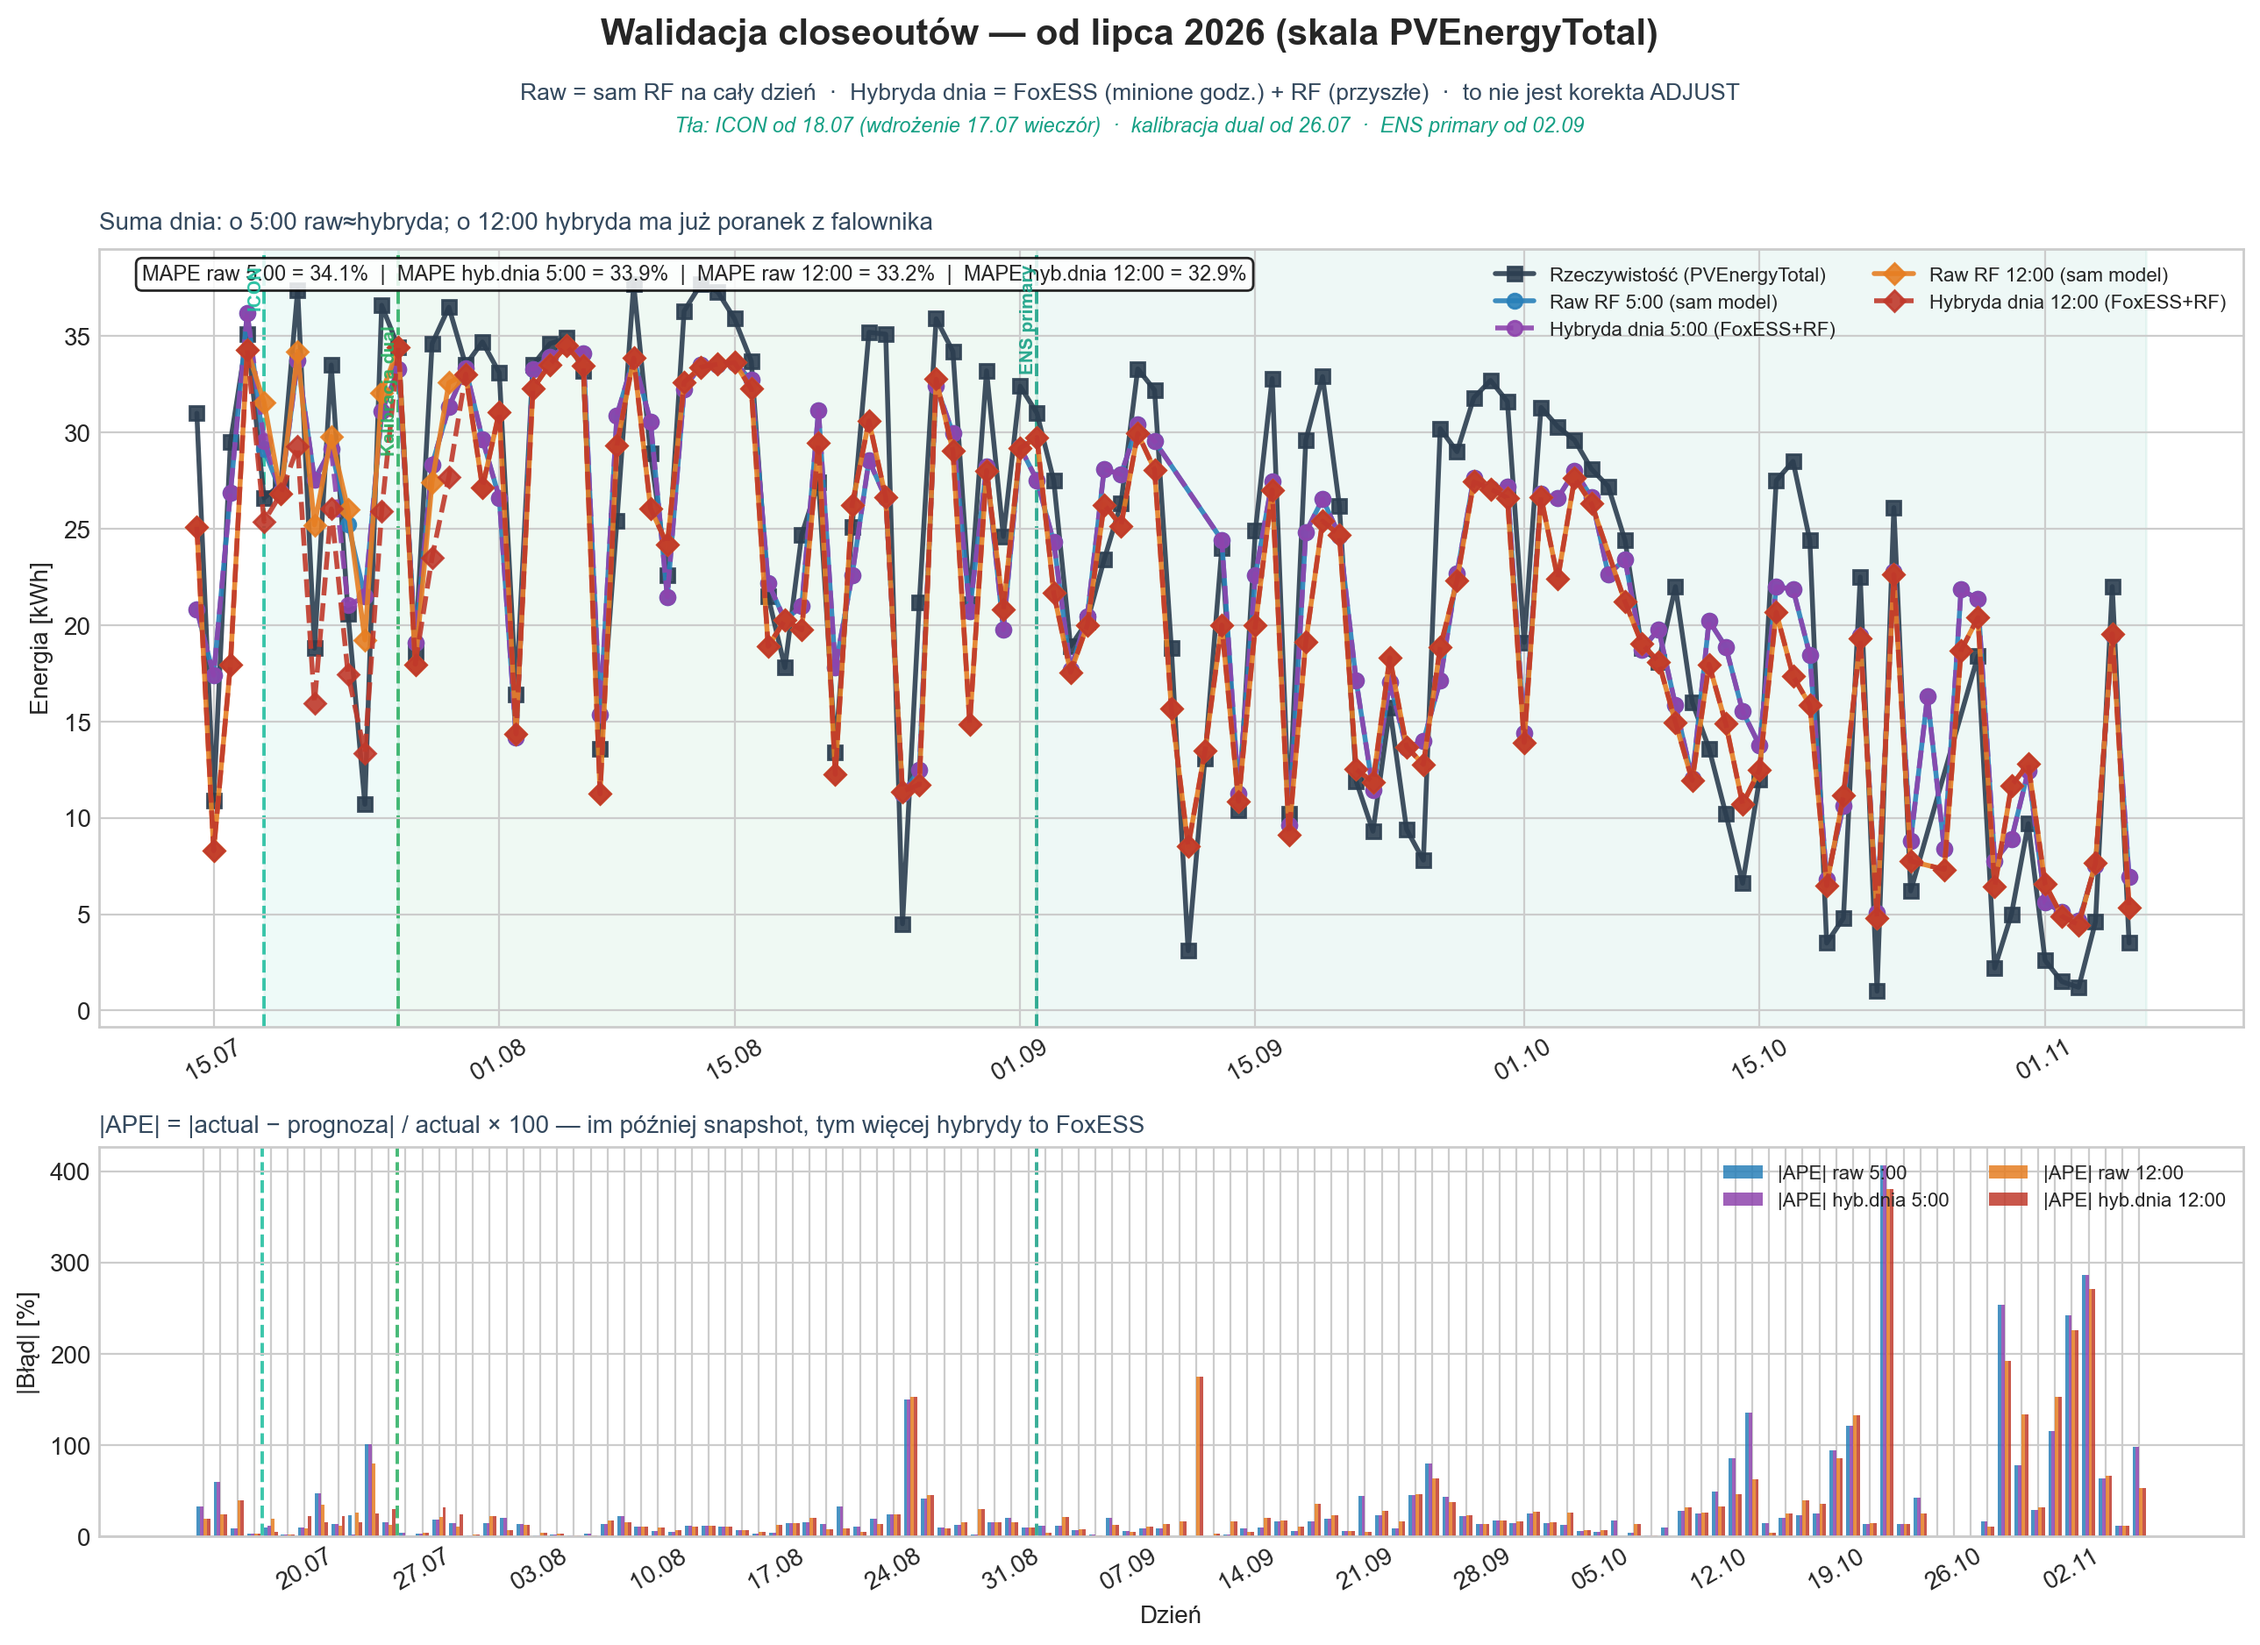
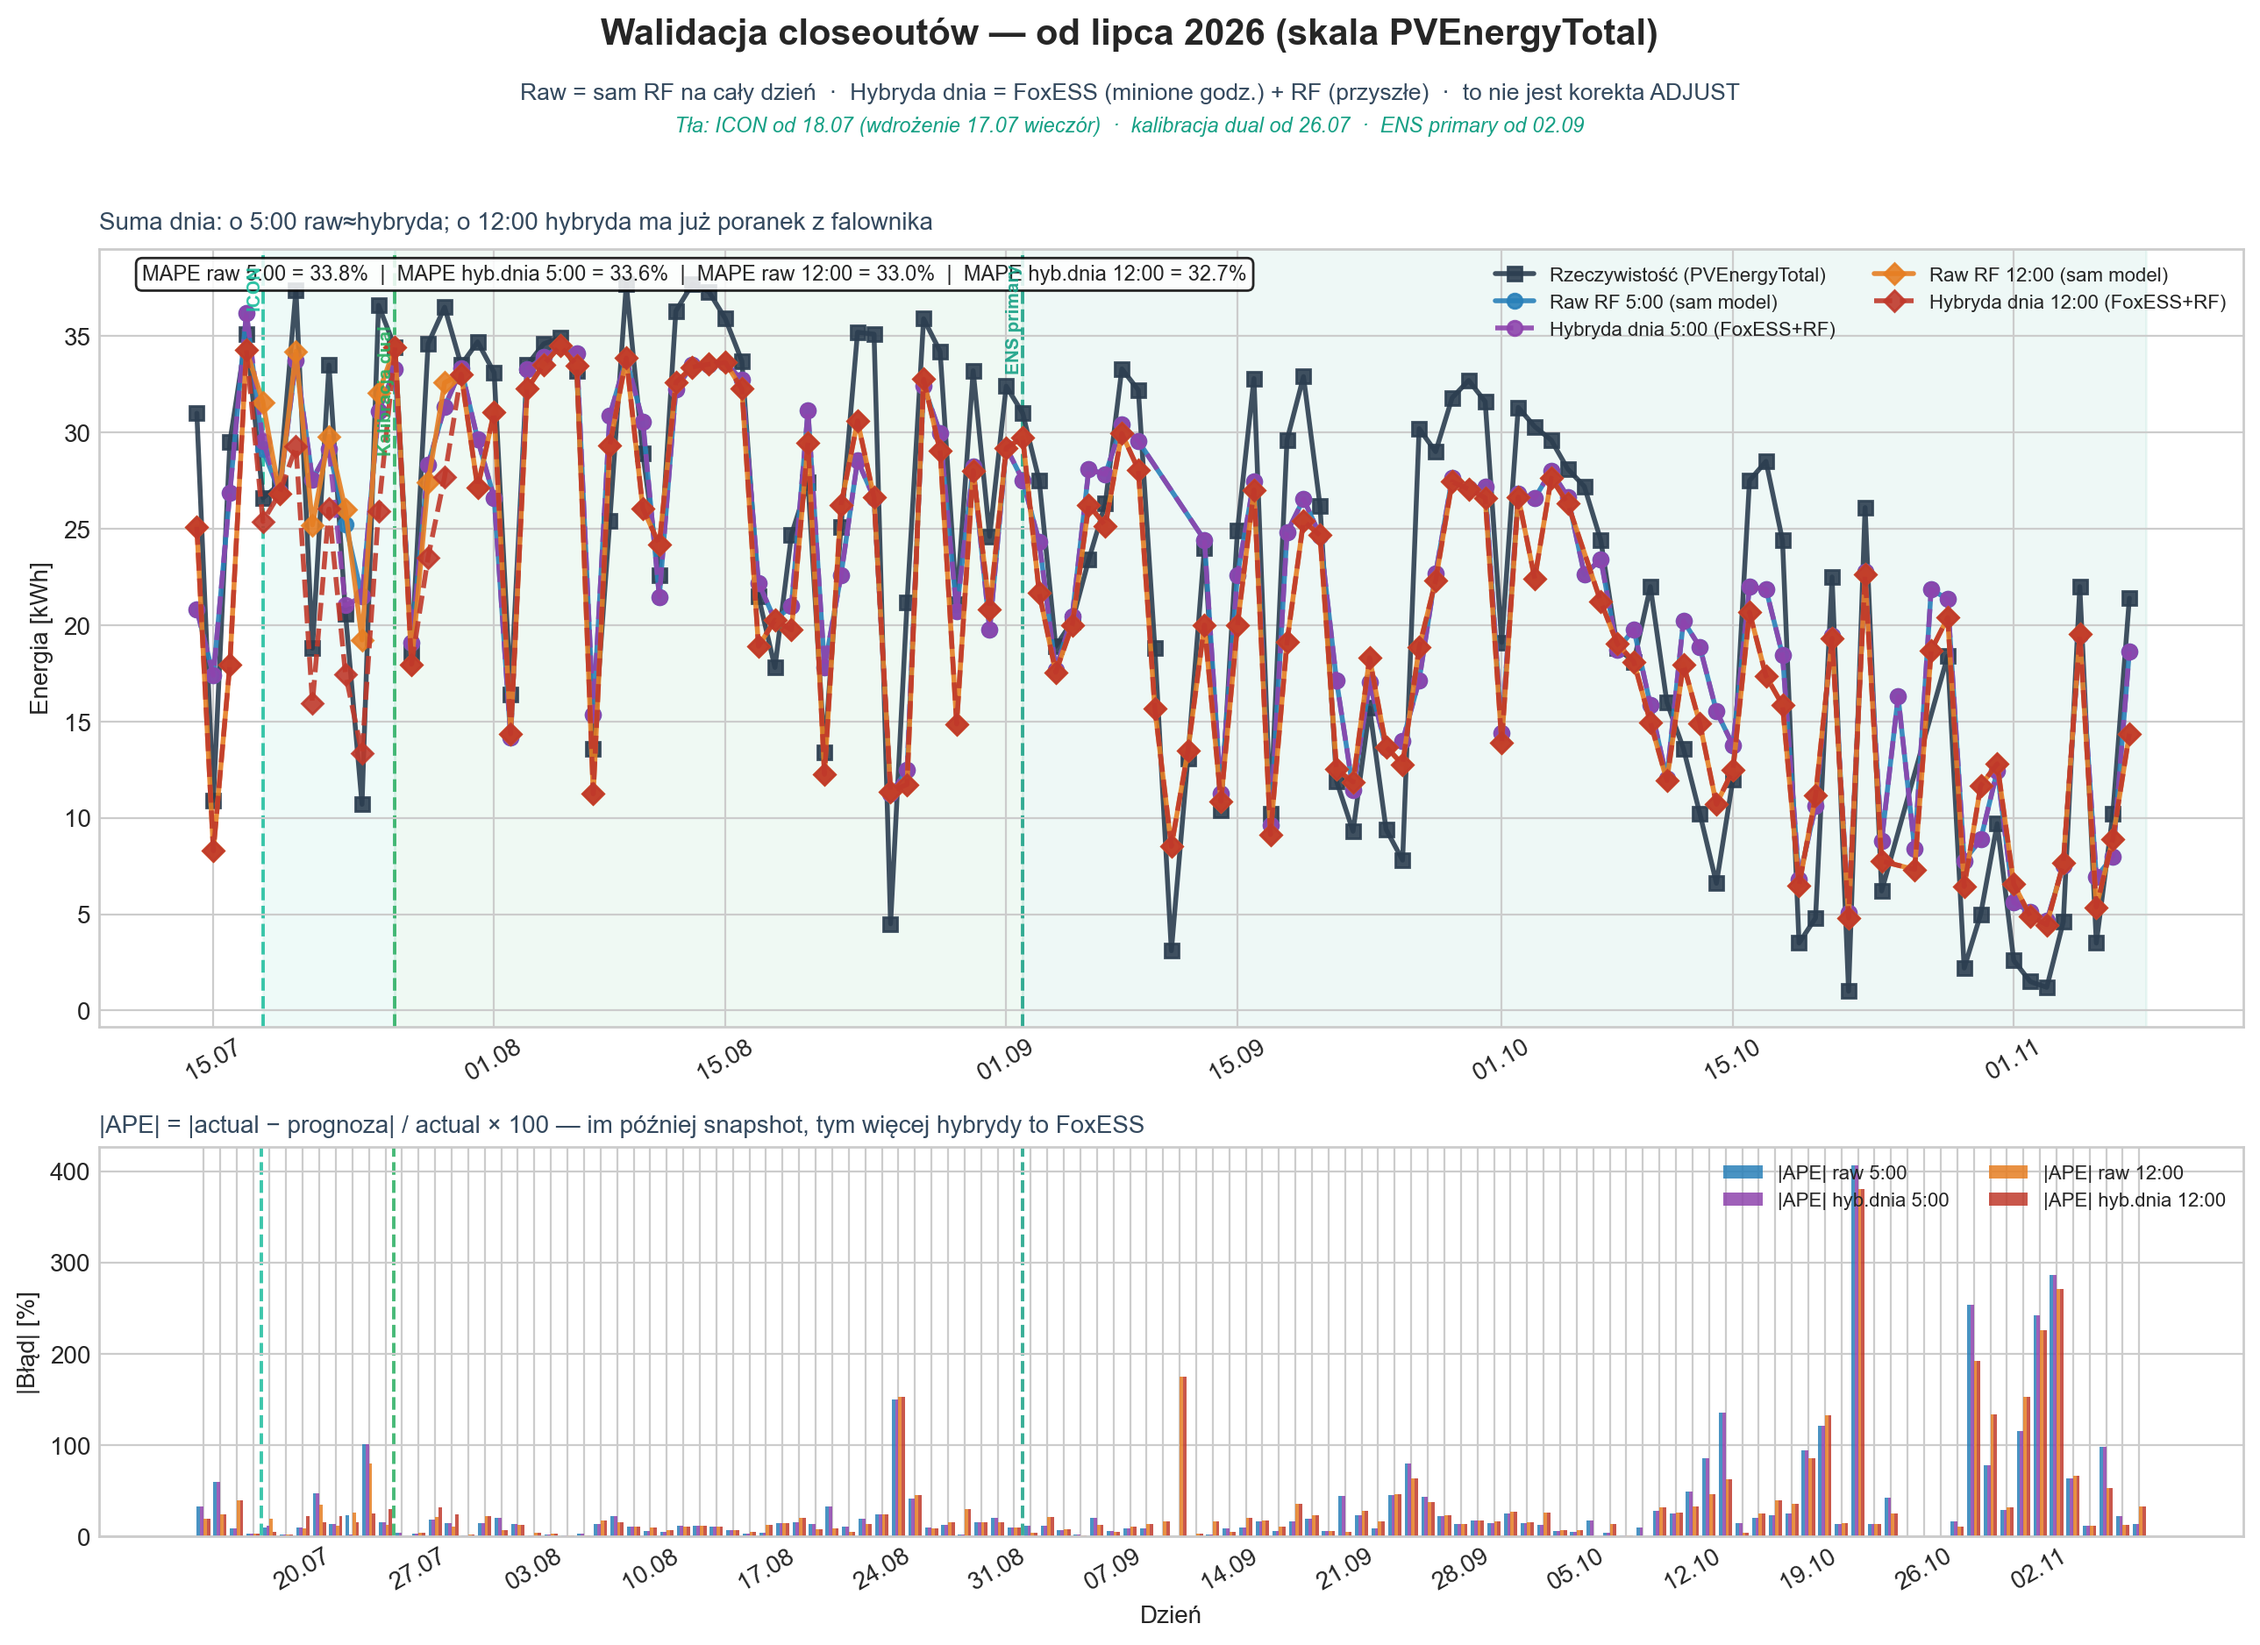
docs(ml): gate dual L30 i wykresy walidacji po closeoucie 07.11

diff --git a/docs/images/ml/july_validation_summary.md b/docs/images/ml/july_validation_summary.md
@@ -6,14 +6,14 @@ Metryka: **|APE| %** = `|actual − prognoza| / actual × 100`. Pogoda: średnie
 
 | Typ dnia (cloud) | n | MAPE raw 5:00 | MAPE raw 12:00 | Dni |
 |---|---:|---:|---:|---|
-| słoneczny / mało chmur | 25 | 10.4% | 12.5% | 20.07, 30.07, 31.07, 04.08, 05.08, 06.08, 09.08, 12.08, 13.08, 14.08, 15.08, 27.08, 08.09, 09.09, 28.09, 29.09, 30.09, 02.10, 03.10, 05.10, 16.10, 17.10, 23.10, 27.10, 05.11 |
+| słoneczny / mało chmur | 26 | 10.5% | 13.3% | 20.07, 30.07, 31.07, 04.08, 05.08, 06.08, 09.08, 12.08, 13.08, 14.08, 15.08, 27.08, 08.09, 09.09, 28.09, 29.09, 30.09, 02.10, 03.10, 05.10, 16.10, 17.10, 23.10, 27.10, 05.11, 08.11 |
 | mieszany | 33 | 16.8% | 16.7% | 16.07, 17.07, 25.07, 26.07, 28.07, 29.07, 03.08, 08.08, 10.08, 16.08, 20.08, 22.08, 23.08, 24.08, 28.08, 29.08, 30.08, 01.09, 02.09, 06.09, 15.09, 16.09, 19.09, 26.09, 27.09, 04.10, 06.10, 07.10, 12.10, 13.10, 18.10, 21.10, 28.10 |
-| pochmurny / deszczowy | 58 | 55.5% | 51.6% | 14.07, 15.07, 18.07, 19.07, 21.07, 22.07, 23.07, 24.07, 27.07, 01.08, 02.08, 07.08, 11.08, 17.08, 18.08, 19.08, 21.08, 25.08, 26.08, 31.08, 03.09, 04.09, 05.09, 07.09, 10.09, 11.09, 12.09, 13.09, 14.09, 17.09, 18.09, 20.09, 21.09, 22.09, 23.09, 24.09, 25.09, 01.10, 08.10, 09.10, 10.10, 11.10, 14.10, 15.10, 19.10, 20.10, 22.10, 24.10, 25.10, 26.10, 29.10, 30.10, 31.10, 01.11, 02.11, 03.11, 04.11, 06.11 |
+| pochmurny / deszczowy | 59 | 54.9% | 50.9% | 14.07, 15.07, 18.07, 19.07, 21.07, 22.07, 23.07, 24.07, 27.07, 01.08, 02.08, 07.08, 11.08, 17.08, 18.08, 19.08, 21.08, 25.08, 26.08, 31.08, 03.09, 04.09, 05.09, 07.09, 10.09, 11.09, 12.09, 13.09, 14.09, 17.09, 18.09, 20.09, 21.09, 22.09, 23.09, 24.09, 25.09, 01.10, 08.10, 09.10, 10.10, 11.10, 14.10, 15.10, 19.10, 20.10, 22.10, 24.10, 25.10, 26.10, 29.10, 30.10, 31.10, 01.11, 02.11, 03.11, 04.11, 06.11, 07.11 |
 
 - **Najtrafniejszy raw 5:00:** 08.10 (0.4% · pochmurny / deszczowy, cloud~79%, actual 18.8 kWh), 30.07 (0.6% · słoneczny / mało chmur, cloud~30%, actual 33.5 kWh), 03.08 (0.7% · mieszany, cloud~47%, actual 33.5 kWh)
 - **Najgorszy raw 5:00:** 22.10 (406.0% · pochmurny / deszczowy, cloud~100%, actual 1.0 kWh), 03.11 (286.7% · pochmurny / deszczowy, cloud~97%, actual 1.2 kWh), 29.10 (253.2% · pochmurny / deszczowy, cloud~96%, actual 2.2 kWh)
 - **Najgorszy raw 12:00:** 22.10 (380.0% · pochmurny / deszczowy, actual 1.0 kWh), 03.11 (270.8% · pochmurny / deszczowy, actual 1.2 kWh), 02.11 (226.0% · pochmurny / deszczowy, actual 1.5 kWh)
-- **Rekord |APE| (cała seria 14.07–06.11):** **22.10** raw 12:00 **380.0%** (Fox **1.0** kWh vs prognoza midday **4.8** kWh) — wyżej niż dotychczasowy outlier **25.08** (152,7% midday). Accu reżim **CS4** OK; miss = poziom kWh, nie klasyfikacja.
+- **Rekord |APE| (cała seria 14.07–08.11):** **22.10** raw 12:00 **380.0%** (Fox **1.0** kWh vs prognoza midday **4.8** kWh) — wyżej niż dotychczasowy outlier **25.08** (152,7% midday). Accu reżim **CS4** OK; miss = poziom kWh, nie klasyfikacja.
 
 - **Wzorzec:** na dniach **jasnych / wysokiej produkcji** raw bywa lekko **za niski** (NWP za chmurny vs Accu) — błąd umiarkowany w %, duży w kWh. Na dniach **słabych / burzowych** raw często **zawyża** — wtedy |APE| % eksploduje przy niskim Fox (**11.09** rekord **174,8%**; wcześniej klasa **25.08** ~153%). Od **02.09** primary to **ENS (ICON+UKMO)** — ten sam RF16, inna pogoda.
 
@@ -36,16 +36,16 @@ Raw 5:00 vs Fox, tygodnie pn–nd (od 03.08, min. 5 dni). **WAPE** = Σ|pred−F
 | 12.10–18.10 | 7 | 17.5 | 35.9% | +6.4% | -22.5% (n=3) | 135% | 35.0% (n=7) | -14.6% | **ALARM** · WAPE ALARM · bias OK · dzień ALARM |
 | 19.10–25.10 | 6 | 10.7 | 34.6% | +14.6% | -13.2% (n=2) | 406% | 32.4% (n=6) | +6.2% | **ALARM** · WAPE ALARM · bias ALARM · dzień ALARM |
 | 26.10–01.11 | 5 | 7.6 | 47.8% | +47.8% | — | 253% | 43.2% (n=5) | +43.2% | **ALARM** · WAPE ALARM · bias ALARM · dzień ALARM |
-| 02.11–08.11 | 5 | 6.6 | 48.5% | +33.3% | -11.4% (n=1) | 287% | 55.8% (n=5) | +39.5% | **ALARM** · WAPE ALARM · bias ALARM · dzień ALARM |
+| 02.11–08.11 | 7 | 9.2 | 32.4% | +9.3% | -12.1% (n=2) | 287% | 44.2% (n=7) | +4.4% | **ALARM** · WAPE ALARM · bias WATCH · dzień ALARM |
 
 #### ENS vs dual ICON — korekta o miks pogody
 
-Era ENS ma więcej dni pochmurnych (**58%** vs **32%** w erze dual), a na pochmurnych |APE| % jest zawyżone przez niski Fox — dlatego porównuj **te same typy dni** (różnica MAPE raw 5:00, ENS − dual): słoneczny / mało chmur: wyższy o 6.1 pp w erze ENS; mieszany: wyższy o 11.6 pp w erze ENS; pochmurny / deszczowy: wyższy o 43.1 pp w erze ENS. Mała próba (n w komórkach) — to obserwacja, nie wniosek.
+Era ENS ma więcej dni pochmurnych (**57%** vs **32%** w erze dual), a na pochmurnych |APE| % jest zawyżone przez niski Fox — dlatego porównuj **te same typy dni** (różnica MAPE raw 5:00, ENS − dual): słoneczny / mało chmur: wyższy o 6.1 pp w erze ENS; mieszany: wyższy o 11.6 pp w erze ENS; pochmurny / deszczowy: wyższy o 41.6 pp w erze ENS. Mała próba (n w komórkach) — to obserwacja, nie wniosek.
 
 | Era | słoneczny / mało chmur (n · MAPE 5:00) | mieszany (n · MAPE 5:00) | pochmurny / deszczowy (n · MAPE 5:00) | udział dni pochmurnych |
 |---|---:|---:|---:|---:|
 | dual ICON 27.07–01.09 | 11 · 7.3% | 14 · 12.1% | 12 · 27.4% | 32% |
-| ENS od 02.09 | 13 · 13.3% | 15 · 23.7% | 38 · 70.5% | 58% |
+| ENS od 02.09 | 14 · 13.3% | 15 · 23.7% | 39 · 69.1% | 57% |
 
 #### Kiedy hybryda dnia pomaga, a kiedy szkodzi
 
@@ -53,7 +53,7 @@ Porównanie **midday (12:00)**: hybryda = FoxESS na minione godziny + RF na resz
 
 - **Hybryda pomaga (12:00):** 18.07 (↓14.1 pp, pochmurny / deszczowy); 21.07 (↓18.9 pp, pochmurny / deszczowy); 23.07 (↓10.8 pp, pochmurny / deszczowy); 24.07 (↓55.0 pp, pochmurny / deszczowy)
 - **Hybryda szkodzi (12:00):** 20.07 (↑13.2 pp, słoneczny / mało chmur); 22.07 (↑11.2 pp, pochmurny / deszczowy); 25.07 (↑16.7 pp, mieszany); 28.07 (↑11.3 pp, mieszany); 29.07 (↑13.4 pp, mieszany)
-- **Remis / szum (<1 pp):** 14.07, 15.07, 16.07, 17.07, 19.07, 26.07, 27.07, 30.07, 31.07, 01.08, 02.08, 03.08, 04.08, 05.08, 06.08, 07.08, 08.08, 09.08, 10.08, 11.08, 12.08, 13.08, 14.08, 15.08, 16.08, 17.08, 18.08, 19.08, 20.08, 21.08, 22.08, 23.08, 24.08, 25.08, 26.08, 27.08, 28.08, 29.08, 30.08, 31.08, 01.09, 02.09, 03.09, 04.09, 05.09, 06.09, 07.09, 08.09, 09.09, 10.09, 11.09, 12.09, 13.09, 14.09, 15.09, 16.09, 17.09, 18.09, 19.09, 20.09, 21.09, 22.09, 23.09, 24.09, 25.09, 26.09, 27.09, 28.09, 29.09, 30.09, 01.10, 02.10, 03.10, 04.10, 05.10, 07.10, 08.10, 09.10, 10.10, 11.10, 12.10, 13.10, 14.10, 15.10, 16.10, 17.10, 18.10, 19.10, 20.10, 21.10, 22.10, 23.10, 24.10, 28.10, 29.10, 30.10, 31.10, 01.11, 02.11, 03.11, 04.11, 05.11, 06.11
+- **Remis / szum (<1 pp):** 14.07, 15.07, 16.07, 17.07, 19.07, 26.07, 27.07, 30.07, 31.07, 01.08, 02.08, 03.08, 04.08, 05.08, 06.08, 07.08, 08.08, 09.08, 10.08, 11.08, 12.08, 13.08, 14.08, 15.08, 16.08, 17.08, 18.08, 19.08, 20.08, 21.08, 22.08, 23.08, 24.08, 25.08, 26.08, 27.08, 28.08, 29.08, 30.08, 31.08, 01.09, 02.09, 03.09, 04.09, 05.09, 06.09, 07.09, 08.09, 09.09, 10.09, 11.09, 12.09, 13.09, 14.09, 15.09, 16.09, 17.09, 18.09, 19.09, 20.09, 21.09, 22.09, 23.09, 24.09, 25.09, 26.09, 27.09, 28.09, 29.09, 30.09, 01.10, 02.10, 03.10, 04.10, 05.10, 07.10, 08.10, 09.10, 10.10, 11.10, 12.10, 13.10, 14.10, 15.10, 16.10, 17.10, 18.10, 19.10, 20.10, 21.10, 22.10, 23.10, 24.10, 28.10, 29.10, 30.10, 31.10, 01.11, 02.11, 03.11, 04.11, 05.11, 06.11, 07.11, 08.11
 
 - **O 5:00:** hybryda ≈ raw (pomaga 1 dni / szkodzi 1) — przed wschodem prawie nie ma FoxESS do podmiany.
 
@@ -72,18 +72,18 @@ Podział według **zmian logiki / targetu / cech** (nie każdy niedzielny odświ
 | 14.07–18.07 | przed targetem PVE (skala mieszana; GPS/ICON 17.07) | 5 | 22.8% | 20.6% |
 | 19.07–26.07 | po PVE 18.07 ~16:32 — przed dual 26.07 | 8 | 26.5% | 21.7% |
 | 27.07–01.09 | era dual ICON primary (po 26.07; weekly = odświeżenie wag) | 37 | 15.6% | 15.8% |
-| 02.09–06.11 | era ENS primary (ICON+UKMO; gate 01.09, daily od 02.09) | 66 | 47.4% | 46.1% |
-| 19.07–06.11 | **era PVE łącznie** (bez 14–18) | 111 | **34.6%** | **33.8%** |
+| 02.09–08.11 | era ENS primary (ICON+UKMO; gate 01.09, daily od 02.09) | 68 | 46.4% | 45.4% |
+| 19.07–08.11 | **era PVE łącznie** (bez 14–18) | 113 | **34.3%** | **33.6%** |
 
-_Zakres całość: 14.07–06.11 (116 closeoutów) · MAPE raw 5:00 = **34.1%** · MAPE raw 12:00 = **33.2%**._
+_Zakres całość: 14.07–08.11 (118 closeoutów) · MAPE raw 5:00 = **33.8%** · MAPE raw 12:00 = **33.0%**._
 
-#### Notatka odświeżenia 07.11.2026
+#### Notatka odświeżenia 08.11.2026
 
-- Zakres closeoutów: **14.07–06.11** (n=116). PNG + ten plik wygenerowane **07.11**.
+- Zakres closeoutów: **14.07–08.11** (n=118). PNG + ten plik wygenerowane **08.11**.
 - Linie na wykresie: **ICON** od **18.07** (wdrożenie 17.07 wieczór) · **kalibracja dual** od **26.07** · **ENS primary** od **02.09**.
-- **ENS primary** od **02.09** (gate 01.09, pierwszy daily 5:00) — n=66 closeoutów · MAPE raw **47.4% / 46.1%**.
+- **ENS primary** od **02.09** (gate 01.09, pierwszy daily 5:00) — n=68 closeoutów · MAPE raw **46.4% / 45.4%**.
 - Era dual ICON **27.07–01.09** (n=37): MAPE raw **15.6% / 15.8%**.
-- Ostatnie closeouty (actual · |APE| raw 5:00): 30.10 **5.0** (raw 5:00 77.6%), 31.10 **9.7** (raw 5:00 28.2%), 01.11 **2.6** (raw 5:00 115.4%), 02.11 **1.5** (raw 5:00 242.0%), 03.11 **1.2** (raw 5:00 286.7%), 04.11 **4.6** (raw 5:00 63.7%), 05.11 **22.0** (raw 5:00 11.4%), 06.11 **3.5** (raw 5:00 97.7%).
+- Ostatnie closeouty (actual · |APE| raw 5:00): 01.11 **2.6** (raw 5:00 115.4%), 02.11 **1.5** (raw 5:00 242.0%), 03.11 **1.2** (raw 5:00 286.7%), 04.11 **4.6** (raw 5:00 63.7%), 05.11 **22.0** (raw 5:00 11.4%), 06.11 **3.5** (raw 5:00 97.7%), 07.11 **10.2** (raw 5:00 21.6%), 08.11 **21.4** (raw 5:00 12.9%).
 
 #### Jak czytać PNG
 

diff --git a/docs/NOTATKA_GATE_DUAL_L30.md b/docs/NOTATKA_GATE_DUAL_L30.md
@@ -38,8 +38,10 @@ PYTHONPATH=$PWD ./venv/bin/python scripts/train/train_xgb_ts_shadow.py \
 1. **Dual reporting** w każdym weekly train (RF16 / CS4 / XGB+TS):
    - **Shuffle Test MAE** — jak dotychczas (kontrola, gate Δ vs prev ≤ +0,02 → ACCEPT / REVIEW)
    - **L30 chrono MAE** — holdout ostatnich 30 dni do `train_end` (uczciwy błąd referencyjny)
+   - **Chrono 20%** — ostatnie 20% dni do `train_end` (kolumny `chrono20_*` od **08.11**; **nie** gate, **nie** ucina `.joblib`). Pierwsza liczba w CSV dopiero po weekly **15.11**.
 2. **Produkcja `.joblib`:** zawsze **expanding** od `ML_TRAIN_MIN_START` → **wczoraj** (`train_end=auto`). L30 **nie** ucina danych treningowych. RF po wyborze hiperparametrów dostaje **refit na pełnym oknie** (jak XGB+TS).
 3. **Soft gate L30 (październik / okres przejściowy):** MAE w okolicy **~0,75–1,0** → `INFO` / powyżej → `WATCH`. **`hard_reject=False` zawsze** — brak fałszywego alarmu / auto-rollback z samego L30.
+4. **Shadow cap @05 (od 08.11, nie w apce):** cięcie gdy chmura 6–20 ≥ **88%** i ENS @05 ≤ **10 kWh**. Bias kWh z poprzednich **28** dni o chmurze ≥ 88% (min. 3, bias ≥ 0). Próg **90%** omija **01.11** (88,96%). Samo zejście progu bez sufitu ENS szkodzi dniom z wysoką chmurą NWP i Fox ~20 kWh. Na serii do 08.11: **7** cięć, **0** szkód, WAPE **16,4→15,8%**. `FORECAST_OPERATIONAL_ADJUST` zostaje **wyłączony**.
 
 ---
 
@@ -52,6 +54,7 @@ PYTHONPATH=$PWD ./venv/bin/python scripts/train/train_xgb_ts_shadow.py \
 | XGB+TS shadow + dual | [`scripts/train/train_xgb_ts_shadow.py`](../scripts/train/train_xgb_ts_shadow.py) |
 | Podsumowanie po weekly | [`scripts/train/weekly_dual_gate_report.py`](../scripts/train/weekly_dual_gate_report.py) |
 | Launchd weekly | [`mlops/train_dual_weekly.sh`](../mlops/train_dual_weekly.sh) |
+| Shadow cap @05 (nie apka) | [`scripts/analysis/shadow_morning_cloud_cap.py`](../scripts/analysis/shadow_morning_cloud_cap.py) → `morning_cloud_cap_shadow.csv` |
 | Historia CSV | `data/processed/weekly_dual_metrics.csv` |
 | Summary RF | `data/processed/hourly_model_tuning_summary_{production,cs4}.csv` (kolumny `l30_*`, `soft_gate_*`) |
 
